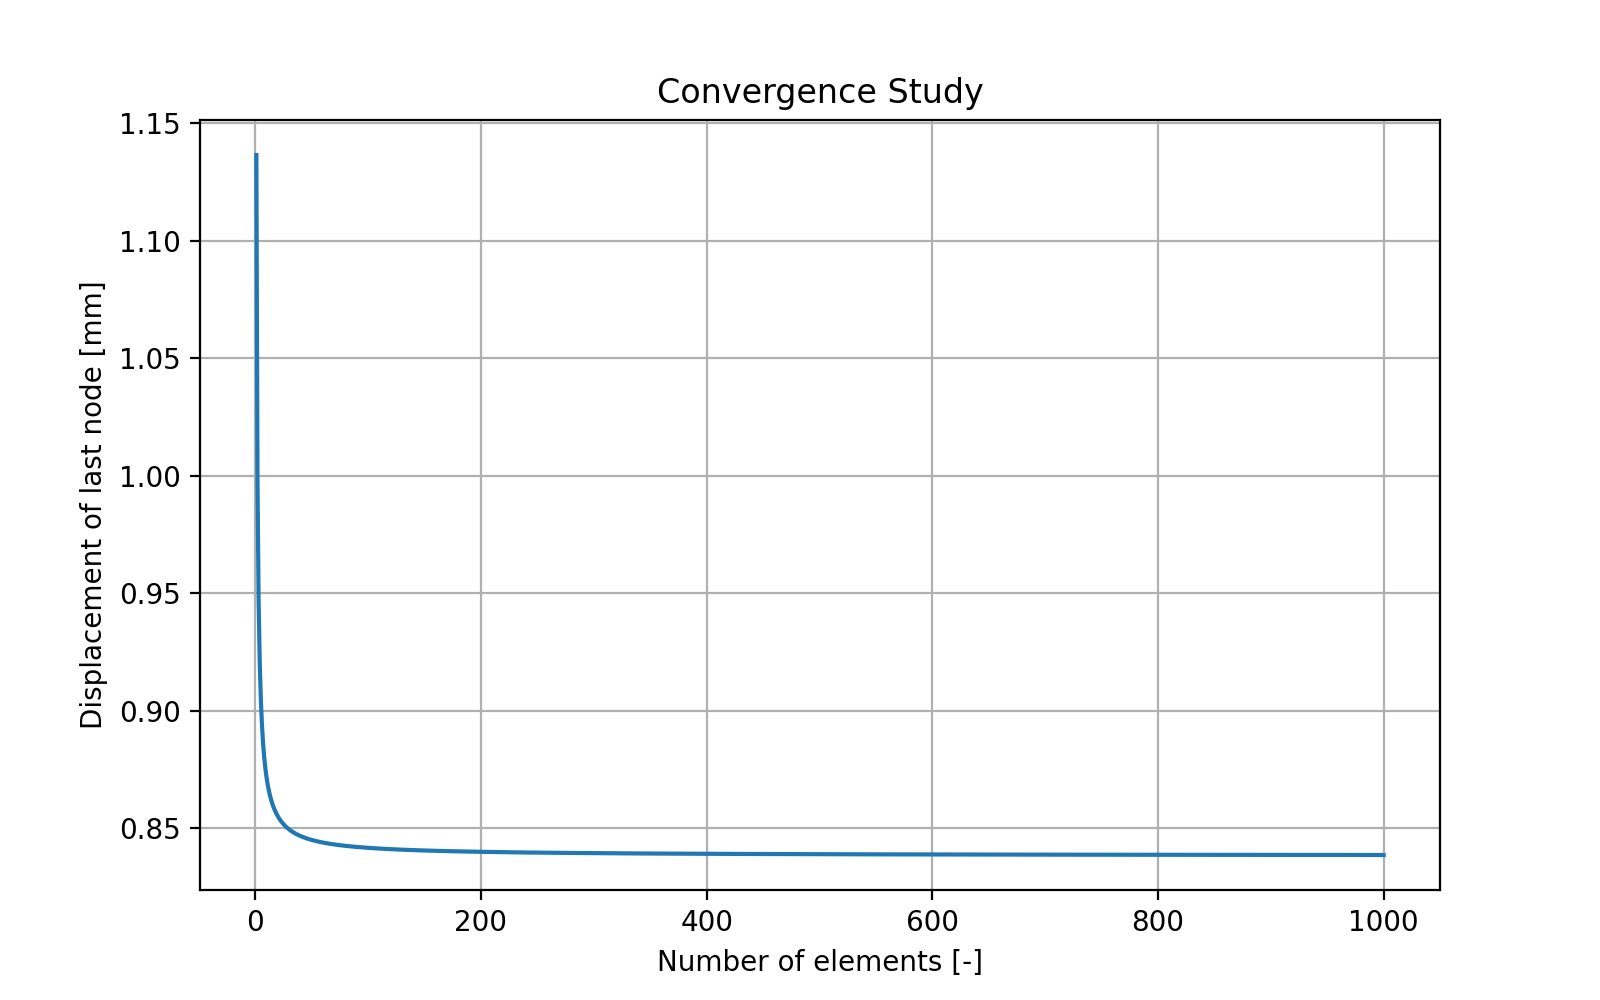
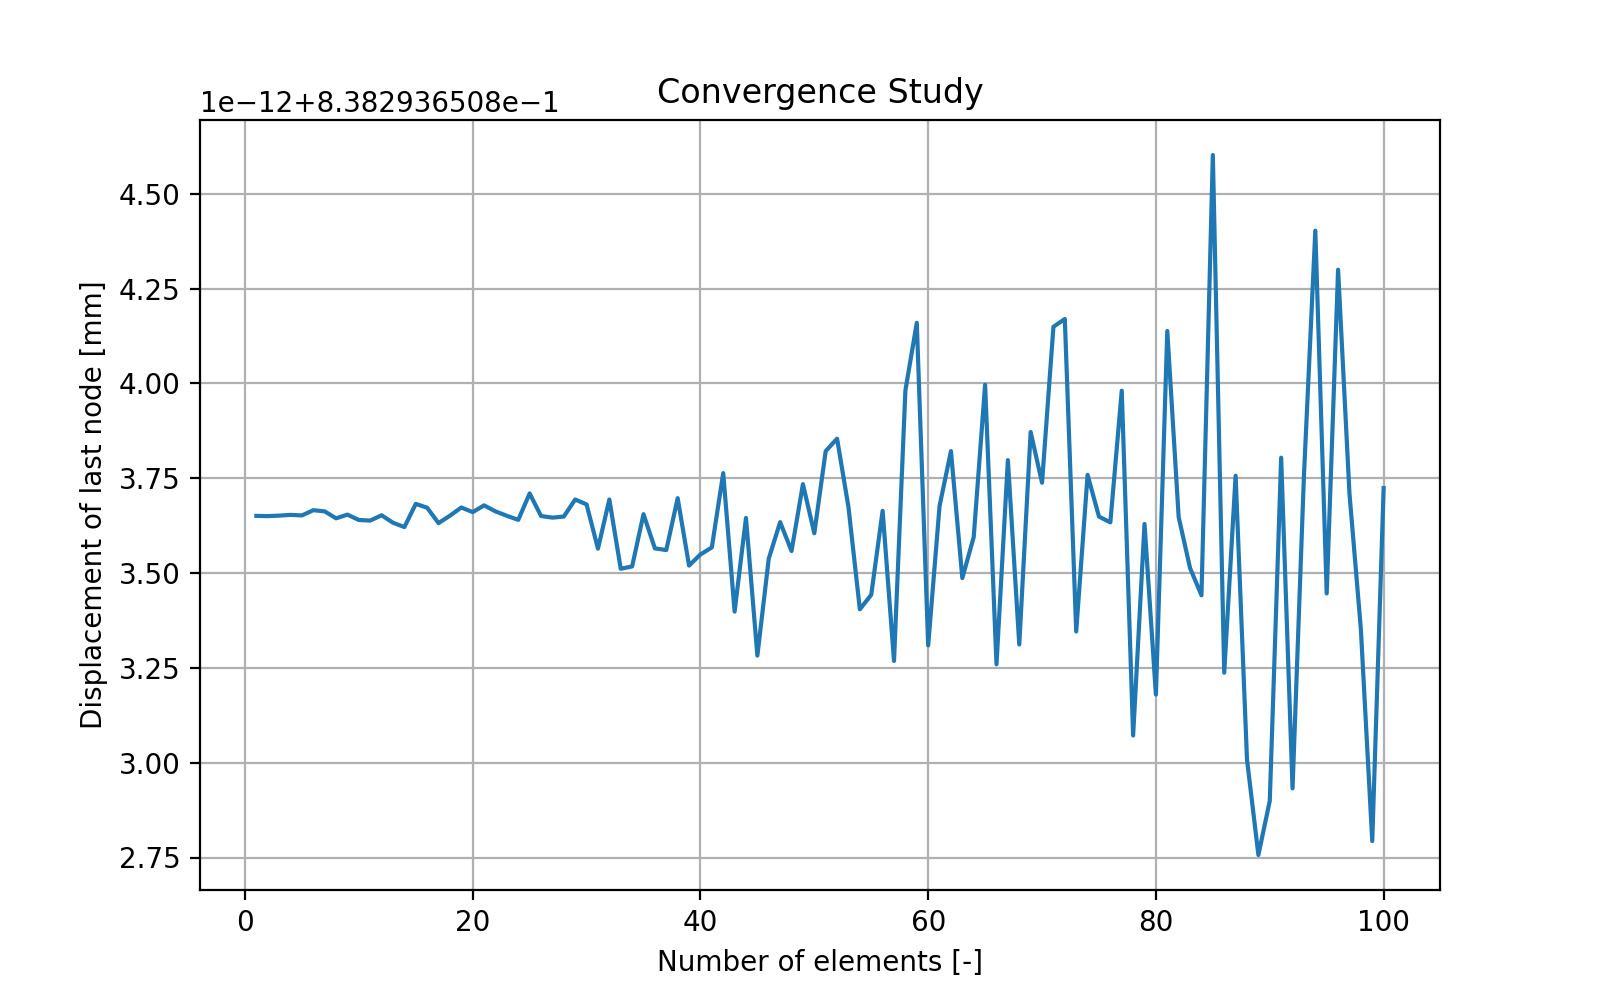
Funzione load con shep functions

diff --git a/HW3/LMex3_6072941.py b/HW3/LMex3_6072941.py
@@ -15,12 +15,36 @@ def assemble_global_stiffness_matrix(nelem: int, ltot: float, elastic_module: fl
     return K_global
 
 
-def load_vector(coeff_a: float, coeff_b: float, nelem: int, ltot: float):
+def load_vector_simple(coeff_a: float, coeff_b: float, nelem: int, ltot: float):
     n = 3 + (nelem - 1) * 2
     nodes = np.linspace(0, ltot, n)
     load = np.zeros(n)
     dummy = coeff_a * nodes + coeff_b / 2 * nodes ** 2
     load[1:] = np.diff(dummy)
+    return load
+
+
+def load_vector_shape_functions(coeff_a: float, coeff_b: float, nelem: int, ltot: float):
+    n = 3 + (nelem - 1) * 2
+    l = ltot/nelem
+    load = np.zeros(n)
+    nodes = np.linspace(0, ltot, n)
+    for ii in range(nelem):
+        x_i = nodes[2 * ii]
+        x_j = nodes[2 * ii + 1]
+        x_k = nodes[2 * ii + 2]
+        load[2 * ii] += (2*coeff_a/l**2 * (
+                1/3*(x_k**3 - x_i**3) - 1/2*(x_k**2 - x_i**2)*(x_j + x_k) + (x_k-x_i)*x_j*x_k) +
+                        2*coeff_b/l**2 * (
+                                1/4*(x_k**4 - x_i**4) - 1/3*(x_k**3 - x_i**3)*(x_j+x_k) + 1/2*(x_k**2 - x_i**2)*x_j*x_k))
+        load[2 * ii + 1] += -2*(
+                2*coeff_a/l**2 * (1/3*(x_k**3 - x_i**3) - 1/2*(x_k**2 - x_i**2)*(x_i + x_k) + (x_k-x_i)*x_i*x_k) +
+                        2*coeff_b/l**2 * (
+                        1/4*(x_k**4 - x_i**4) - 1/3*(x_k**3 - x_i**3)*(x_i+x_k) + 1/2*(x_k**2 - x_i**2)*x_i*x_k))
+        load[2 * ii + 2] += (2*coeff_a/l**2 * (
+                1/3*(x_k**3 - x_i**3) - 1/2*(x_k**2 - x_i**2)*(x_j + x_i) + (x_k-x_i)*x_j*x_i) +
+                        2*coeff_b/l**2 * (
+                                    1/4*(x_k**4 - x_i**4) - 1/3*(x_k**3 - x_i**3)*(x_j+x_i) + 1/2*(x_k**2 - x_i**2)*x_j*x_i))
     return load
 
 
@@ -31,7 +55,7 @@ def apply_problem_speficic_bc(K_global, load):
 
 
 def quadratic_elements_problem(ltot, surface, elastic_module, coeff_a, coeff_b, nelem):
-    F = load_vector(coeff_a, coeff_b, nelem, ltot)
+    F = load_vector_simple(coeff_a, coeff_b, nelem, ltot)
     K = assemble_global_stiffness_matrix(nelem, ltot, elastic_module, surface)
     K_reduced, F_reduced = apply_problem_speficic_bc(K, F)
     u_partial = np.linalg.solve(K_reduced, F_reduced)
@@ -64,7 +88,7 @@ print(u)
 print(true_displacement(a, b, A, E, L))
 
 # CONVERGENCE PROBLEM
-nmax = 1000
+nmax = 100
 u_end = np.zeros(nmax)
 for i in range(1, nmax+1):
     u = quadratic_elements_problem(L, A, E, a, b, i)
